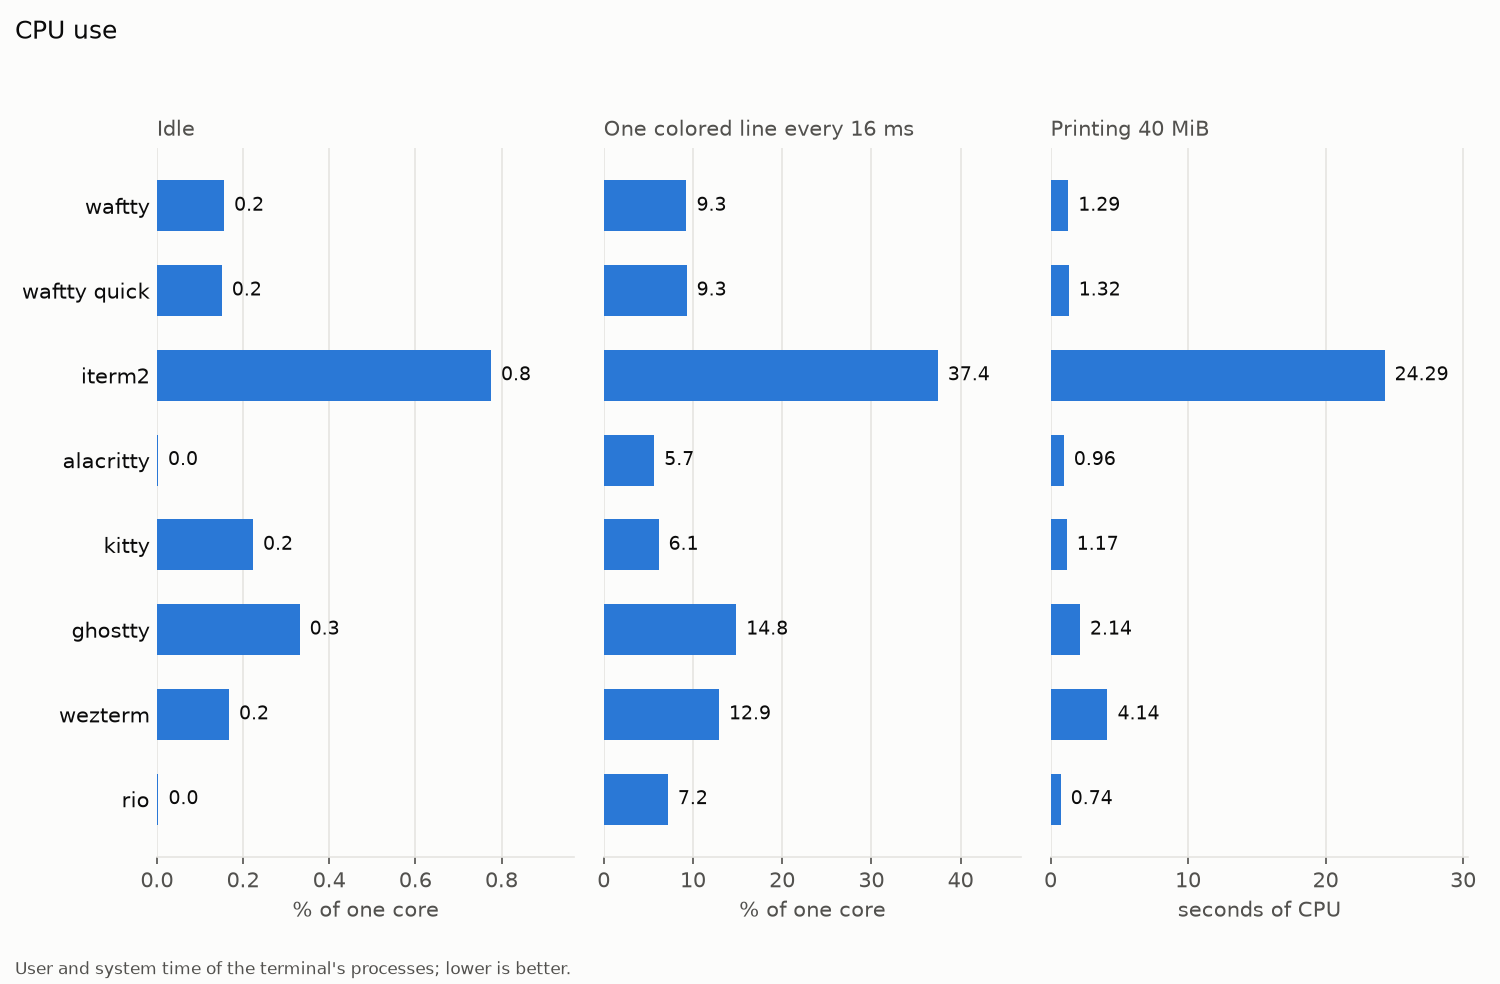
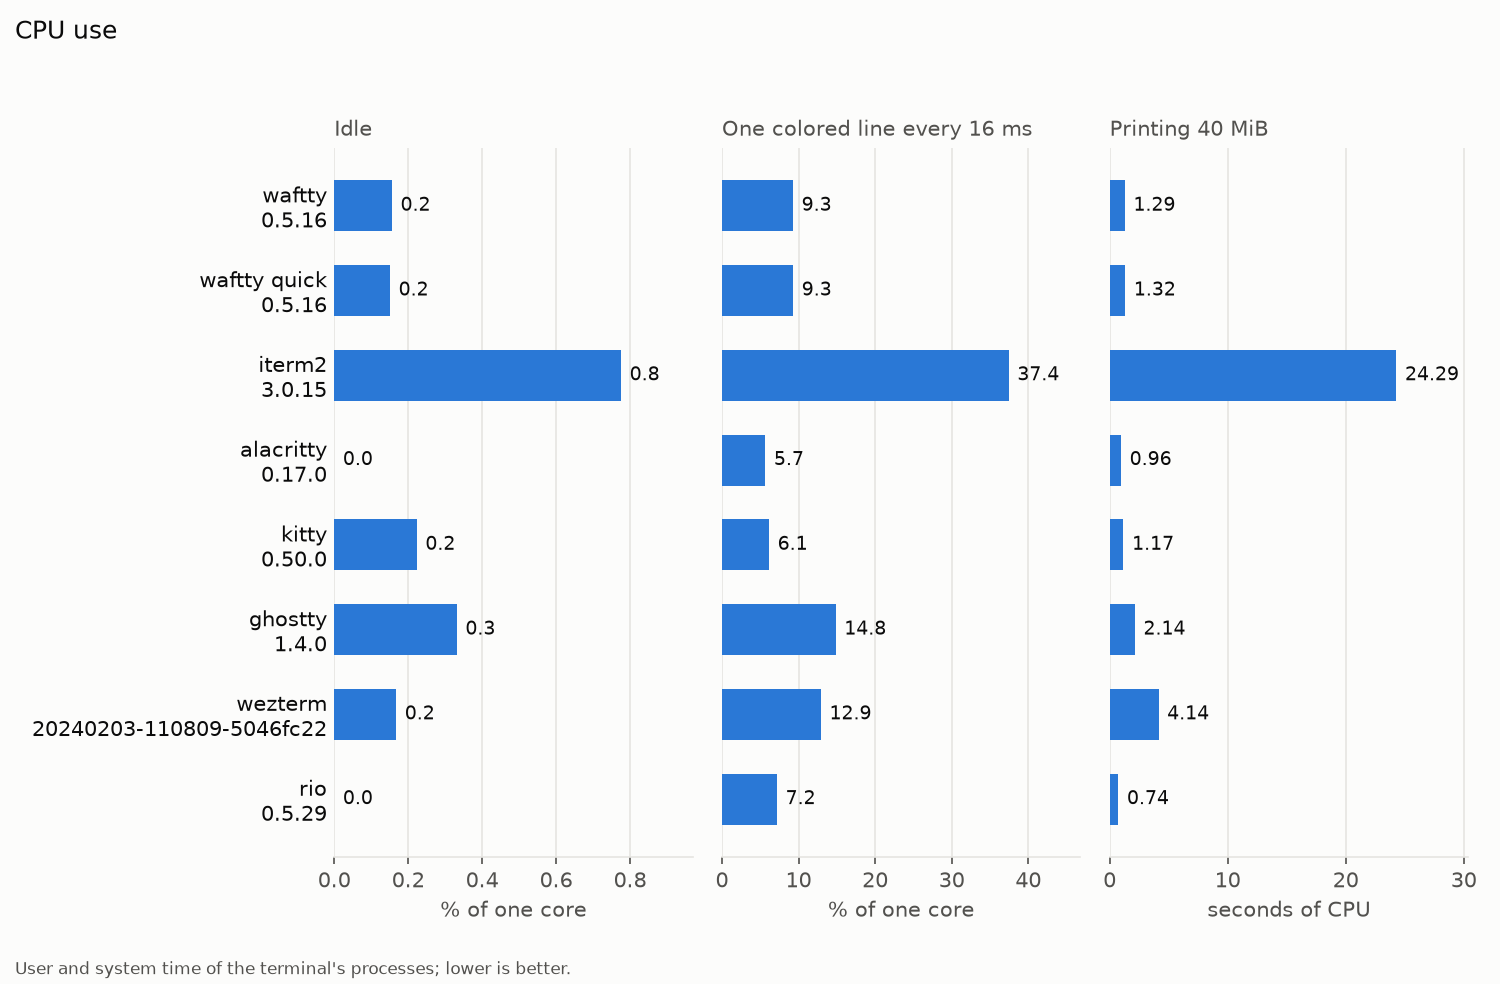
0.6.0 - Command palette, private sessions, shell history, cd history
Claude-Session: https://claude.ai/code/session_01B8x9mf7bEYuNBoVeNvaZoz

diff --git a/bench/report.py b/bench/report.py
@@ -8,6 +8,7 @@ Reads <system>/results.json and writes <system>/report unless --results and
 
 import argparse
 import json
+import re
 import statistics
 import sys
 from pathlib import Path
@@ -41,10 +42,52 @@ def pct(xs, q):
     return xs[min(len(xs) - 1, round(q * (len(xs) - 1)))]
 
 
+# A version is the first word of a `--version` line that starts with a digit.
+VERSION = re.compile(r"(?<!\S)\d\S*")
+
+
+def short_version(text):
+    """The version number in a terminal's `--version` line, or the line itself."""
+    found = VERSION.search(text)
+    return found.group() if found else text.strip()
+
+
+def drawn(value, fmt):
+    """The length of `value`'s bar: none when its label reads zero, so a figure
+    shown as 0.0 never looks like more."""
+    try:
+        return 0.0 if float(fmt(value)) == 0 else value
+    except ValueError:
+        return value
+
+
 def number(value, spec):
     """`value` formatted by `spec`, with no sign when it rounds to zero."""
     text = f"{value:{spec}}"
     return text[1:] if text.startswith("-") and float(text) == 0 else text
+
+
+def heading(fig, ax, title, fontsize):
+    """Puts `title` at the figure's top left with the legend of `ax`'s bars under
+    it, in as many columns as fit the figure's width, and answers the share of
+    the figure's height the two take."""
+    height = fig.get_figheight()
+    fig.text(0.01, 1 - 0.12 / height, title, fontsize=12, color=INK, va="top")
+    used = 0.5
+    handles, labels = ax.get_legend_handles_labels()
+    if len(handles) > 1:
+        renderer = fig.canvas.get_renderer()
+        for ncol in range(len(handles), 0, -1):
+            legend = fig.legend(handles, labels, frameon=False, loc="upper left",
+                                bbox_to_anchor=(0.005, 1 - used / height), ncol=ncol,
+                                fontsize=fontsize, handlelength=1.2, columnspacing=1.2,
+                                borderaxespad=0.2)
+            box = legend.get_window_extent(renderer)
+            if box.x1 <= fig.bbox.x1 - 0.01 * fig.bbox.width or ncol == 1:
+                break
+            legend.remove()
+        used += box.height / fig.dpi + 0.05
+    return used / height
 
 
 def hbars(out, order, name, title, unit, series, fmt, note=None, extra=None, ends=None):
@@ -55,6 +98,7 @@ def hbars(out, order, name, title, unit, series, fmt, note=None, extra=None, end
     h = 0.8 / n
     fig, ax = plt.subplots(figsize=(8, 0.62 * len(order) * max(1, n * 0.75) + 1.3))
     ends = ends or [0] * len(order)
+    series = [(label, [drawn(v, fmt) for v in vals]) for label, vals in series]
     top = max([v for _, vals in series for v in vals] + ends) or 1
     for i, (label, vals) in enumerate(series):
         ys = [k + (i - (n - 1) / 2) * h for k in range(len(order))]
@@ -71,14 +115,11 @@ def hbars(out, order, name, title, unit, series, fmt, note=None, extra=None, end
     for side in ("top", "right", "left"):
         ax.spines[side].set_visible(False)
     ax.tick_params(axis="y", length=0)
-    ax.set_title(title, loc="left", fontsize=12, color=INK, pad=30 if n > 1 else 12)
-    if n > 1:
-        # Above the plot, where no bar can run under it.
-        ax.legend(frameon=False, loc="lower left", bbox_to_anchor=(0, 1.0), ncol=n, fontsize=9,
-                  handlelength=1.2, borderaxespad=0.2)
+    # Above the plot, where no bar can run under it.
+    top = heading(fig, ax, title, 9)
     if note:
         fig.text(0.01, 0.01, note, fontsize=8, color=MUTED)
-    fig.tight_layout(rect=(0, 0.03 if note else 0, 1, 1))
+    fig.tight_layout(rect=(0, 0.03 if note else 0, 1, 1 - top))
     fig.savefig(out / f"{name}.png", dpi=150)
     plt.close(fig)
 
@@ -104,11 +145,9 @@ def stacked(out, order, name, title, unit, parts, fmt, note):
     for side in ("top", "right", "left"):
         ax.spines[side].set_visible(False)
     ax.tick_params(axis="y", length=0)
-    ax.set_title(title, loc="left", fontsize=12, color=INK, pad=30)
-    ax.legend(frameon=False, loc="lower left", bbox_to_anchor=(0, 1.0), ncol=len(parts), fontsize=8,
-              handlelength=1.2, columnspacing=1.2, borderaxespad=0.2)
+    top = heading(fig, ax, title, 8)
     fig.text(0.01, 0.01, note, fontsize=8, color=MUTED)
-    fig.tight_layout(rect=(0, 0.03, 1, 1))
+    fig.tight_layout(rect=(0, 0.03, 1, 1 - top))
     fig.savefig(out / f"{name}.png", dpi=150)
     plt.close(fig)
 
@@ -124,6 +163,7 @@ def panels(out, order, name, title, parts, note):
                              squeeze=False)
     axes = axes[0]
     for ax, (label, unit, vals, fmt) in zip(axes, parts):
+        vals = [None if v is None else drawn(v, fmt) for v in vals]
         top = max(v for v in vals if v is not None) or 1
         measured = [(k, v) for k, v in enumerate(vals) if v is not None]
         ax.barh([k for k, _ in measured], [v for _, v in measured], height=0.6, color=PALETTE[0],
@@ -174,6 +214,12 @@ def main(argv=None):
     except json.JSONDecodeError as e:
         raise SystemExit(f"{a.results} is not valid JSON ({e}): take the results again with `{measure}`")
     meta = res.pop("_meta", {})
+    versions = meta.get("versions", {})
+
+    # Charts name each terminal with the version the run measured beneath it.
+    def ticks(terminals):
+        return [f"{t}\n{short_version(versions[t])}" if versions.get(t) else t for t in terminals]
+
     if meta.get("platform", PLATFORM[a.system]) != PLATFORM[a.system]:
         raise SystemExit(f"{a.results} holds results from {meta['platform']}, and this is the "
                          f"{a.system} report: name the system they were taken on")
@@ -227,7 +273,7 @@ def main(argv=None):
     def mbps(t, name):
         return MB / (med(res[t][f"tp_{name}"]) / 1000)
 
-    hbars(a.out, memory, "ram",
+    hbars(a.out, ticks(memory), "ram",
           f"Memory ({'physical footprint' if macos else 'PSS'}), idle and after 40 MiB of output",
           "MiB (lower is better)",
           [("Idle", [mem(t, "idle") for t in memory]),
@@ -253,7 +299,7 @@ def main(argv=None):
                ("X server pixmaps", lambda r: r.get("xserver", 0.0)),
                ("GPU memory", lambda r: r.get("vram", 0.0))]
     if split:
-        stacked(a.out, split, "ram-sources", "Where memory goes under load (after 40 MiB of output)",
+        stacked(a.out, ticks(split), "ram-sources", "Where memory goes under load (after 40 MiB of output)",
                 "MiB (lower is better)",
                 [(label, [heavy(t, pick) for t in split]) for label, pick in sources],
                 lambda v: f"{v:.1f}",
@@ -278,14 +324,14 @@ def main(argv=None):
     cpu_note = "User and system time of the terminal's processes; lower is better."
     if borrowed:
         cpu_note += " CPU seconds for terminals without a CPU run come from their heavy memory runs."
-    panels(a.out, cpus, "cpu", "CPU use",
+    panels(a.out, ticks(cpus), "cpu", "CPU use",
            [("Idle", "% of one core", [cpu(t, "cpu_idle") for t in cpus], lambda v: number(v, ".1f")),
             ("One colored line every 16 ms", "% of one core", [cpu(t, "cpu_lines") for t in cpus],
              lambda v: number(v, ".1f")),
             ("Printing 40 MiB", "seconds of CPU", [print_seconds(t) for t in cpus],
              lambda v: f"{v:.2f}")],
            note=cpu_note)
-    hbars(a.out, rates, "throughput", "Output throughput", "MB/s (higher is better)",
+    hbars(a.out, ticks(rates), "throughput", "Output throughput", "MB/s (higher is better)",
           [(label, [mbps(t, key) for t in rates])
            for label, key in (("Plain ASCII", "plain"), ("256-color SGR", "sgr"),
                               ("Unicode mix", "unicode"))],
@@ -298,7 +344,7 @@ def main(argv=None):
         gaps = streaming(t, "gaps")
         return 1000 * len(gaps) / sum(gaps) if gaps else 0.0
 
-    hbars(a.out, keys, "latency", "Keystroke to screen latency", "ms (lower is better)",
+    hbars(a.out, ticks(keys), "latency", "Keystroke to screen latency", "ms (lower is better)",
           [("Idle terminal", [med(res[t]["latency"]) for t in keys]),
            ("While output streams", [med(streaming(t, "latency") or [0]) for t in keys])],
           lambda v: f"{v:.1f}",
@@ -307,18 +353,17 @@ def main(argv=None):
     # Frame timing comes from X Damage, which macOS has no counterpart to.
     streams = [t for t in streams if streaming(t, "gaps")]
     if streams:
-        panels(a.out, streams, "smoothness", "Frames while colored output streams",
+        panels(a.out, ticks(streams), "smoothness", "Frames while colored output streams",
                [("Frames per second", "higher is better", [fps(t) for t in streams],
                  lambda v: f"{v:.0f}"),
                 ("99th percentile frame gap", "ms (lower is better)",
                  [pct(streaming(t, "gaps") or [0], 0.99) for t in streams], lambda v: f"{v:.0f}")],
                note="X Damage reports during 4 s of a flood, timed by the X server.")
-    hbars(a.out, starts, "startup", "Startup: launch to a screenful of text on screen",
+    hbars(a.out, ticks(starts), "startup", "Startup: launch to a screenful of text on screen",
           "ms (lower is better)", [("Median", [med(res[t]["startup"]) for t in starts])],
           lambda v: f"{v:.0f}", note="Median of 10 launches.")
 
     lines = ["# Terminal benchmark", ""]
-    versions = meta.get("versions", {})
     if "scrollback" not in meta:
         setup = "The results file records no details of its run."
     elif macos:

diff --git a/bench/test_report.py b/bench/test_report.py
@@ -10,6 +10,9 @@ import json
 import tempfile
 import unittest
 from pathlib import Path
+from unittest import mock
+
+import matplotlib.axes
 
 import report
 
@@ -178,6 +181,41 @@ class Report(unittest.TestCase):
         with self.assertRaises(SystemExit) as caught:
             report.main(["mac", "--results", str(broken), "--out", str(self.out)])
         self.assertIn("not valid JSON", str(caught.exception))
+
+    def test_versions_name_each_chart_row_by_their_number(self):
+        self.assertEqual(report.short_version("kitty 0.32.2 created by Kovid Goyal"), "0.32.2")
+        self.assertEqual(report.short_version("xfce4-terminal 1.1.3 (Xfce 4.18)"), "1.1.3")
+        self.assertEqual(report.short_version("Guake Terminal: 3.10"), "3.10")
+        self.assertEqual(report.short_version("wezterm 20240203-110809-5046fc22"),
+                         "20240203-110809-5046fc22")
+        self.assertEqual(report.short_version("nightly"), "nightly")
+        rows = []
+        set_yticks = matplotlib.axes.Axes.set_yticks
+
+        def spy(ax, ticks, labels=None, **kw):
+            rows.append(list(labels or []))
+            return set_yticks(ax, ticks, labels, **kw)
+
+        results = {"one": linux_terminal(), "two": linux_terminal(),
+                   "_meta": {"versions": {"one": "one 1.2.3 (abc)"}}}
+        with mock.patch.object(matplotlib.axes.Axes, "set_yticks", spy):
+            self.run_report("linux", results)
+        self.assertIn(["one\n1.2.3", "two"], rows)
+
+    def test_a_figure_that_reads_zero_draws_no_bar(self):
+        widths = []
+        barh = matplotlib.axes.Axes.barh
+
+        def spy(ax, y, width, *args, **kw):
+            widths.append(list(width))
+            return barh(ax, y, width, *args, **kw)
+
+        quiet, busy = linux_terminal(), linux_terminal()
+        quiet["cpu_idle"], busy["cpu_idle"] = [0.0004], [0.25]
+        with mock.patch.object(matplotlib.axes.Axes, "barh", spy):
+            self.run_report("linux", {"quiet": quiet, "busy": busy})
+        self.assertIn([0.0, 0.25], widths)
+        self.assertEqual(report.drawn(0.000001, lambda v: report.number(v, ".1f")), 0.0)
 
 
 if __name__ == "__main__":

diff --git a/bench/README.md b/bench/README.md
@@ -11,7 +11,7 @@ uv run linux/bench.py run --only throughput,latency    # just those measures (ra
 uv run report.py linux                                # charts and RESULTS.md in linux/report
 ```
 
-Results go to `linux/results.json` and the report to `linux/report/` (`--out` and `report.py --results` name others). A run replaces the samples of each terminal and measure it takes and keeps the others, so `--only` and `--terminals` update part of a file. A run prints how long it took when it ends and records that, with the time it finished, in the results; the report shows it, and charts each measure for the terminals that have it. It also reads a run that stopped early, prints which measures are absent and the command that takes them, and leaves out what was not measured instead of charting a zero. When a terminal has no CPU run, its CPU seconds for printing come from its heavy memory runs, which print the same text; idle CPU has no such source. The test inputs and each run's configuration folders stay in `~/.cache/waftty-bench`. Every terminal runs on its defaults from a configuration folder of its own, with the same scrollback (`--scrollback`, 10,000 lines) and a 1000x700 window (or the nearest size its size hints allow).
+Results go to `linux/results.json` and the report to `linux/report/` (`--out` and `report.py --results` name others). A run replaces the samples of each terminal and measure it takes and keeps the others, so `--only` and `--terminals` update part of a file. A run prints how long it took when it ends and records that, with the time it finished, in the results; the report shows it, and charts each measure for the terminals that have it, each named with the version the run recorded from its `--version`. A figure whose label reads 0 draws no bar. It also reads a run that stopped early, prints which measures are absent and the command that takes them, and leaves out what was not measured instead of charting a zero. When a terminal has no CPU run, its CPU seconds for printing come from its heavy memory runs, which print the same text; idle CPU has no such source. The test inputs and each run's configuration folders stay in `~/.cache/waftty-bench`. Every terminal runs on its defaults from a configuration folder of its own, with the same scrollback (`--scrollback`, 10,000 lines) and a 1000x700 window (or the nearest size its size hints allow).
 
 Guake only runs as a drop-down terminal, so waftty also runs as its quick terminal (`waftty-quick`, `waftty --quick`, sized to the same share of the work area, the unit both size themselves in, and once they have placed themselves, to the same window) for a like-for-like comparison. The quick terminal runs on a session bus of its own, so it opens beside any quick terminal already running; that bus starts the desktop portal it reads its color scheme and font from, and ending a run ends the services its bus started. Ghostty's quick terminal is left out: Ghostty does not support it on X11.
 

diff --git a/CHANGELOG.md b/CHANGELOG.md
@@ -1,6 +1,6 @@
 # Changelog
 
-## 0.6.0 - Command palette
+## 0.6.0 - Command palette, private sessions, shell history, cd history
 
 - A command palette: Ctrl+Shift+P (Cmd+Shift+P on macOS) finds and runs any command by part of its name.
 - Tabs and the window title name the command in front and its folder, as "claude: ~/dev/waftty".
@@ -12,7 +12,8 @@
 - Closing a tab or window, or quitting, no longer loses bash history.
 - The menu bar can be hidden (View > Show Menu Bar); it shows by default.
 - A shell's first prompt no longer flickers at startup, in new tabs or in split panes.
-- Builds on gui-engine-gos 0.2.14 and gui-gos 0.2.5.
+- X11: Background opacity below 100 now shows what lies behind the window, under a compositor such as KWin's.
+- Builds on gui-engine-gos 0.2.14, gui-gos 0.2.5 and windowing-gos 0.1.18.
 
 ## 0.5.16 - Cursor blinks without repaint
 
